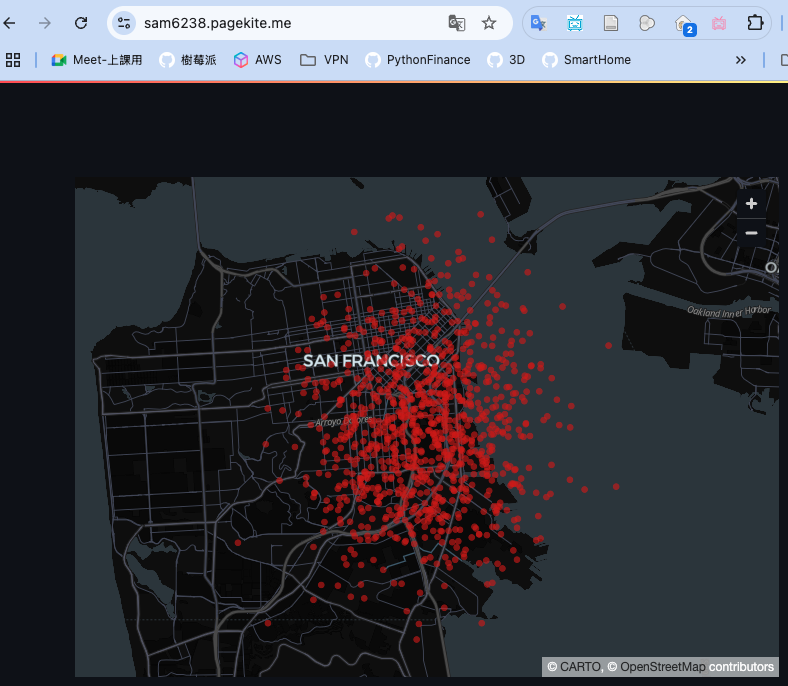
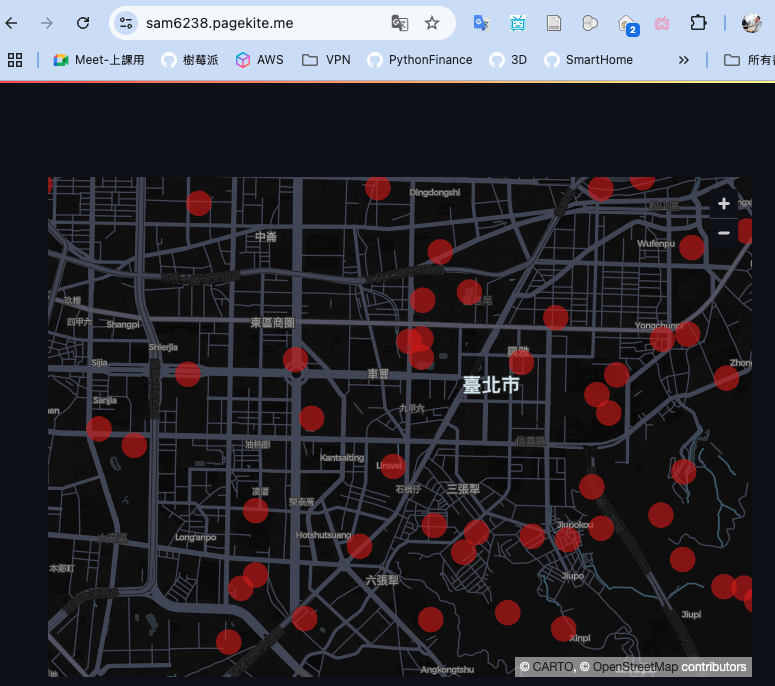
Commit on 2025-07-03 17:02:11

diff --git a/D01_樹莓派+Linux/04_外網連線.md/07-2_Pagekite+Streamlit.md b/D01_樹莓派+Linux/04_外網連線.md/07-2_Pagekite+Streamlit.md
@@ -187,7 +187,22 @@ _說明如何快速套用官網範例_
 
 <br>
 
-5. 再次運行。
+5. 可修改座標以台北為中心；經緯度約為 `lat：25.0330`、`lon：121.5654`。
+
+```python
+import streamlit as st
+import pandas as pd
+import numpy as np
+
+# 台北市中心附近隨機生成 100 筆座標
+df = pd.DataFrame(
+    np.random.randn(1000, 2) / [50, 50] + [25.0330, 121.5654],
+    columns=["lat", "lon"],
+)
+st.map(df)
+```
+
+6. 再次運行。
 
     ```bash
     streamlit run app.py
